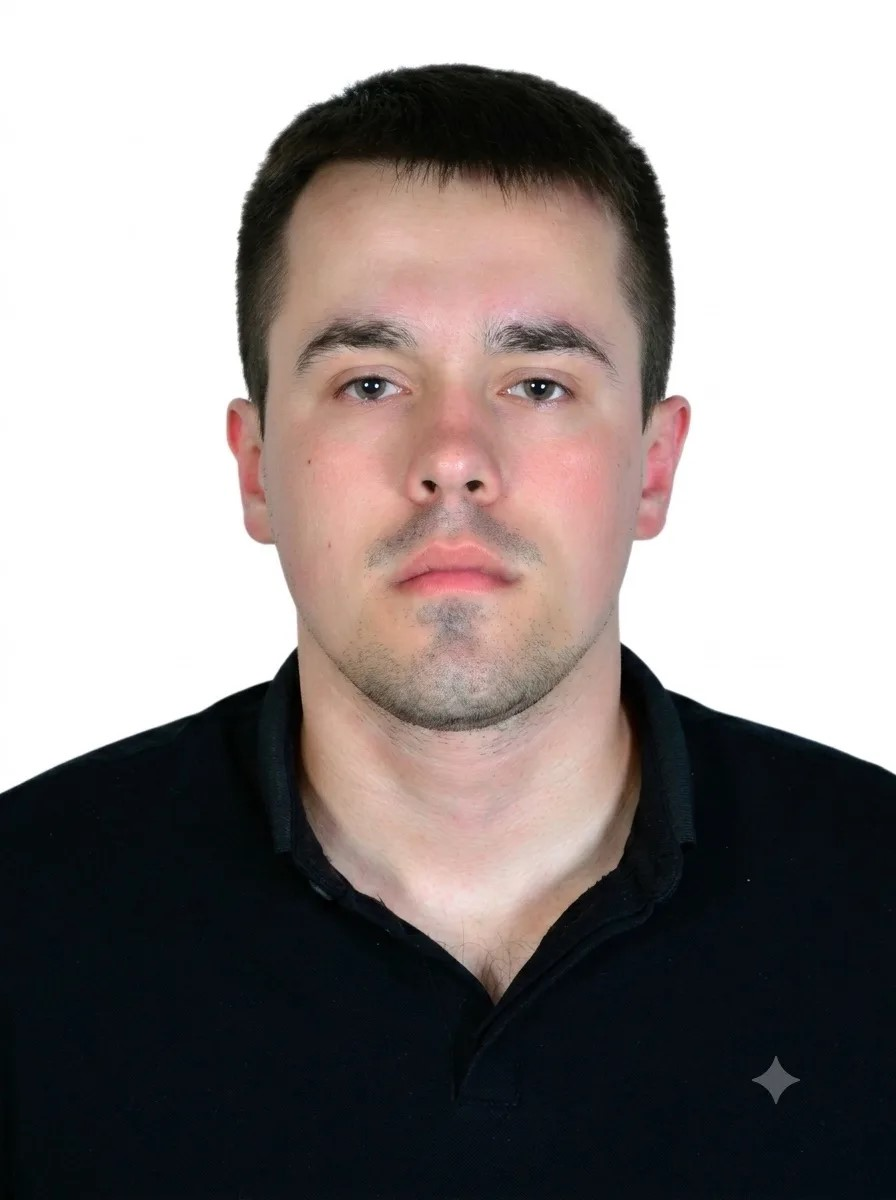
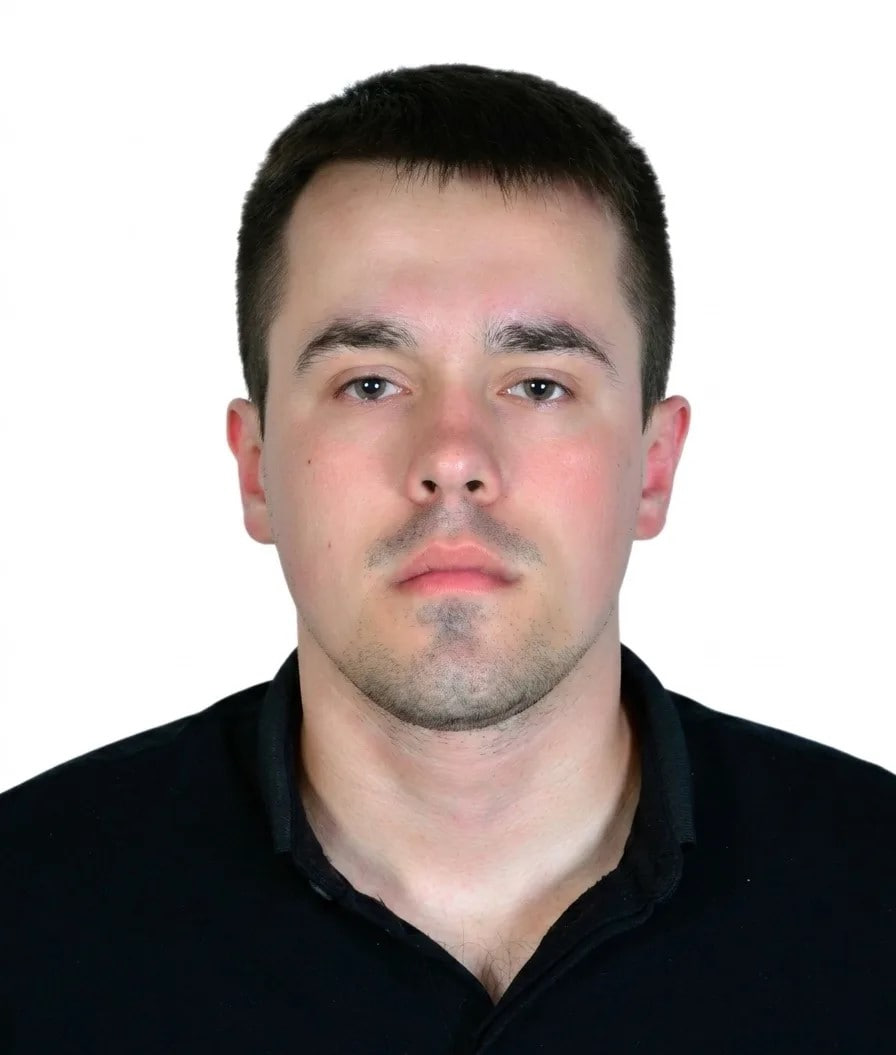
Обновил контакты и фотки

Changed region(s): [[0.0, 0.0303, 1.0, 0.9706], [0.8438, 0.8796, 0.9062, 0.91], [0.75, 0.728, 0.7812, 0.7583]]

diff --git a/index.html b/index.html
@@ -440,8 +440,8 @@
       <div class="footer__contacts">
         <h4>Контакты</h4>
         <!-- ✏ ТЕКСТ: почта и телефон -->
-        <p><a href="mailto:info@example.ru">info@example.ru</a></p>
-        <p><a href="tel:+70000000000">+7 (000) 000-00-00</a></p>
+        <p><a href="mailto:partia_new@mail.ru">info@example.ru</a></p>
+        <p><a href="tel:+79885646362">+7 (000) 000-00-00</a></p>
       </div>
     </div>
 
